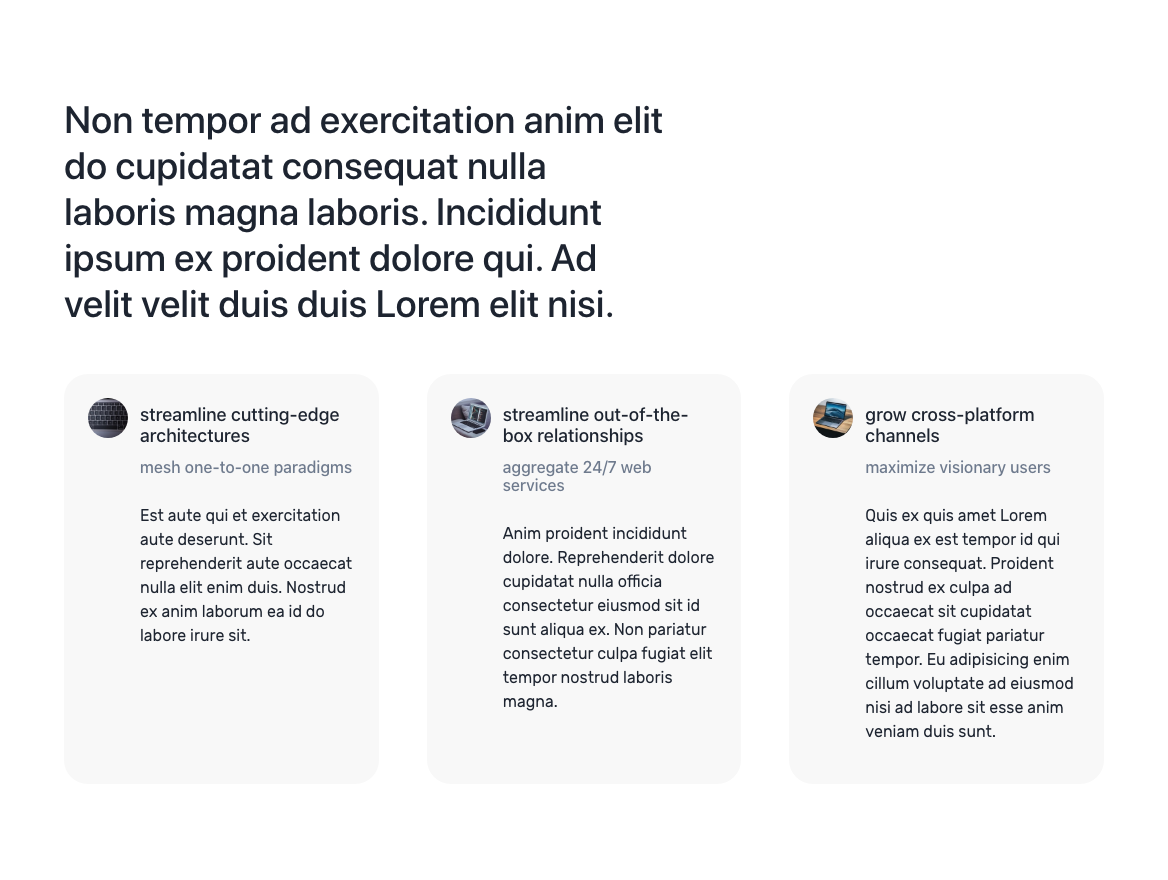
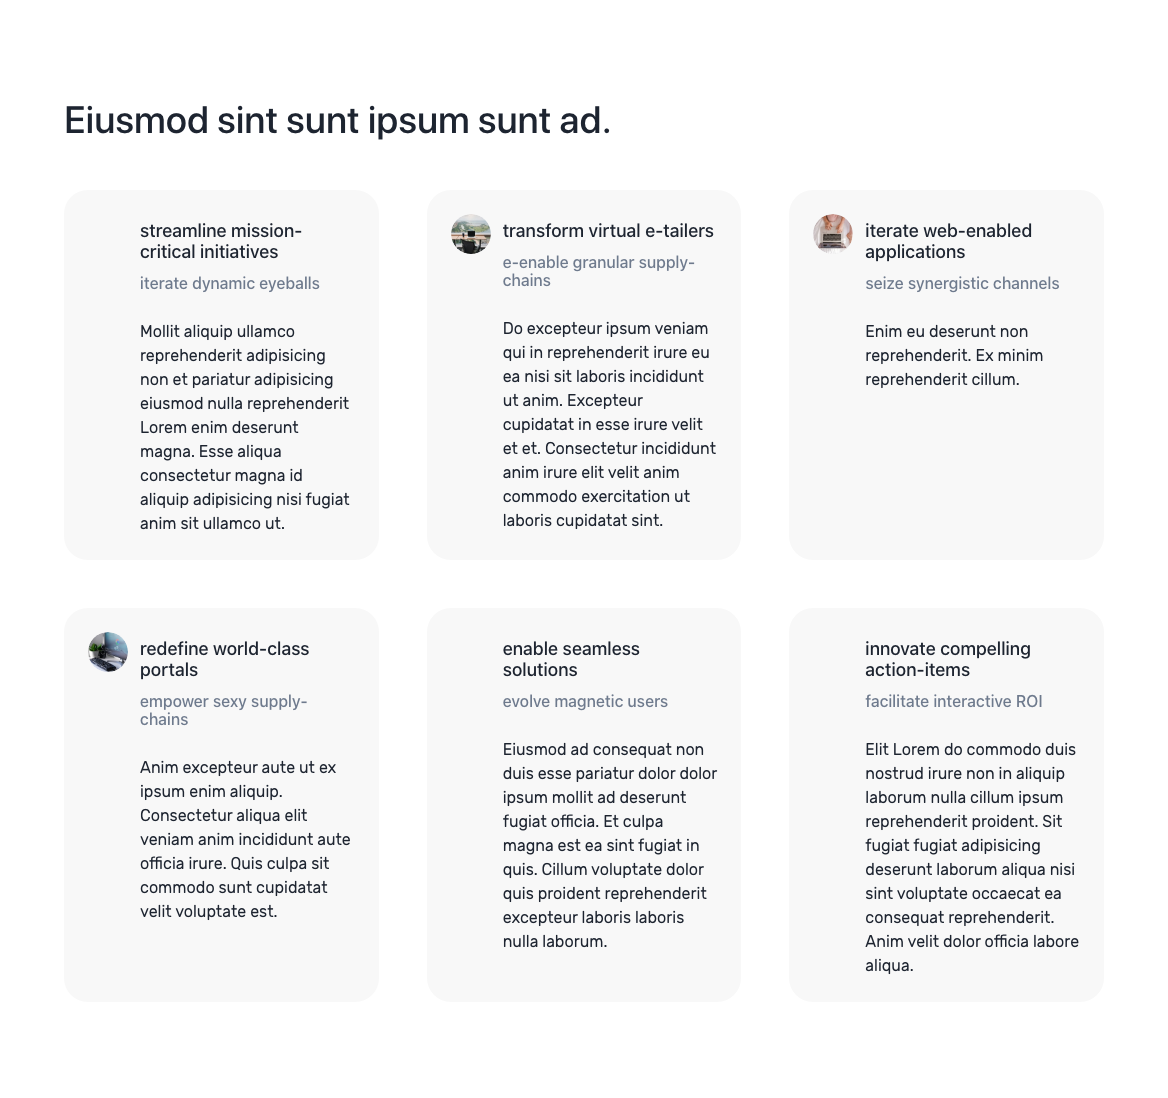
Fix formatting of staff cards and allow for 4 columns

diff --git a/slices/OurTeamSection/index.tsx b/slices/OurTeamSection/index.tsx
@@ -13,7 +13,7 @@ import Slice from "../../types/Slice";
 
 interface Primary {
   title: RichTextBlock[];
-  gridLength: "2" | "3";
+  gridLength: "2" | "3" | "4";
   bottomPadding: "xlarge" | "large" | "medium";
 }
 
@@ -28,16 +28,14 @@ export type OurTeamSectionProps = Slice<Primary, Item>;
 
 const columns = (gridLength = "3") => ({
   small: ["auto"],
-  medium: ["auto", "auto"],
-  large: Array(parseInt(gridLength)).fill("auto"),
-  xlarge: Array(parseInt(gridLength)).fill("1/3"),
+  medium: ["1fr", "1fr"],
+  large: Array(parseInt(gridLength)).fill("1fr"),
 });
 
 const rows = {
   small: ["auto", "auto"],
   medium: ["auto", "auto"],
   large: ["auto"],
-  xlarge: ["auto"],
 };
 
 const OurTeamSection: FC<{
@@ -58,7 +56,7 @@ const OurTeamSection: FC<{
       </Grid>
       <ResponsiveGrid columns={columns(slice.primary.gridLength)} rows={rows}>
         {(slice.items || []).map(({ image, name, position, body }, index) => (
-          <StyledCard
+          <Card
             key={index}
             pad={"medium"}
             background={"light-1"}
@@ -66,7 +64,7 @@ const OurTeamSection: FC<{
             justify={"start"}
             elevation={"none"}
           >
-            <Grid columns={["auto", "auto"]} rows={"1"} gap={"small"}>
+            <Grid columns={["auto", "flex"]} rows={"1"} gap={"small"}>
               <Box
                 width={"40px"}
                 height={"40px"}
@@ -98,16 +96,12 @@ const OurTeamSection: FC<{
                 <StyledRichTextParser body={body} />
               </Box>
             </Grid>
-          </StyledCard>
+          </Card>
         ))}
       </ResponsiveGrid>
     </Section>
   </Box>
 );
-
-const StyledCard = styled(Card)`
-  min-height: 225px;
-`;
 
 const StyledRichTextParser = styled(RichTextParser)`
   > * {
